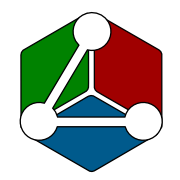
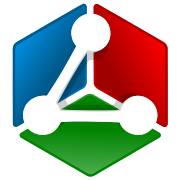
fixes #117

diff --git a/_includes/site/header.html b/_includes/site/header.html
@@ -37,10 +37,15 @@
   <meta name="keywords" content="{{ cur_keywords }}">
   <meta name="robots" content="index,follow">
 
-  <!-- Icon -->
-  <link rel="icon" href="{{ site.url }}/favicon.ico" />
-  <link rel="icon" type="image/png" href="{{ site.url }}/favicon.png" />
+  <!-- Icons generated by RealFaviconGenerator.net -->
+  <link rel="icon" href="{{ site.url }}/favicon.ico">
   <link rel="apple-touch-icon" sizes="180x180" href="/apple-touch-icon.png">
+  <link rel="icon" type="image/png" sizes="32x32" href="/favicon-32x32.png">
+  <link rel="icon" type="image/png" sizes="16x16" href="/favicon-16x16.png">
+  <link rel="manifest" href="/site.webmanifest">
+  <link rel="mask-icon" href="/safari-pinned-tab.svg" color="#5bbad5">
+  <meta name="msapplication-TileColor" content="#da532c">
+  <meta name="theme-color" content="#ffffff">
 
   <!-- FontAwesome -->
   <link rel="stylesheet" href="https://use.fontawesome.com/releases/v5.8.2/css/all.css" integrity="sha384-oS3vJWv+0UjzBfQzYUhtDYW+Pj2yciDJxpsK1OYPAYjqT085Qq/1cq5FLXAZQ7Ay" crossorigin="anonymous">
